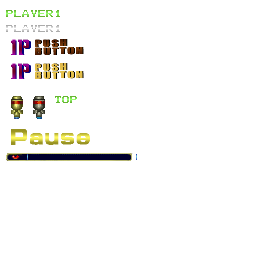
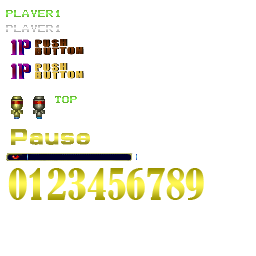
Update: prototype of score + screen bomb munition

Changed region(s): [[0.0312, 0.6562, 0.8125, 0.7812]]

diff --git a/OutZone/ModuleUI.cpp b/OutZone/ModuleUI.cpp
@@ -30,10 +30,23 @@ bool ModuleUi::Start(){
 	
 	idle_energybar.PushBack({ 5, 152, 128, 10});
 	idle_energy.PushBack({ 136, 153, 1, 7 });
+	idle_spbomb.PushBack({ 10, 96, 13, 22});
+	idle_score0.PushBack({ 7, 168, 20, 32 });
+	idle_score1.PushBack({ 27, 168, 20, 32 });
+	idle_score2.PushBack({ 47, 168, 20, 32 });
+	idle_score3.PushBack({ 67, 168, 20, 32 });
+	idle_score4.PushBack({ 87, 168, 20, 32 });
+	idle_score5.PushBack({ 107, 168, 20, 32 });
+	idle_score6.PushBack({ 127, 168, 20, 32 });
+	idle_score7.PushBack({ 147, 168, 20, 32 });
+	idle_score8.PushBack({ 167, 168, 20, 32 });
+	idle_score9.PushBack({ 187, 168, 20, 32 });
+	digit_score = &idle_score0;
+	personal_score = 0;
 
 	position.x = 30;
 	position.y = 20;
-
+	position_bomb = 5;
 	uitextures = App->textures->Load("Animation/UIs2.png");
 
 
@@ -51,8 +64,10 @@ bool ModuleUi::CleanUp()
 
 update_status ModuleUi::Update(){
 
+	// Energy bar;
 	App->render->Blit(uitextures, 10, 20, &(idle_energybar.GetCurrentFrame()), false);
 
+	// Energy;
 	current_time = SDL_GetTicks();
 	if ((current_time - last_deplation) > 1000 && infinite_energy == false){
 		last_deplation = SDL_GetTicks();
@@ -66,7 +81,17 @@ update_status ModuleUi::Update(){
 			App->render->Blit(uitextures, position.x, position.y +1, &(idle_energy.GetCurrentFrame()), false);
 		}
 	}
-	//Testing e_bars
+	
+	//bomb munition
+	if (App->player->spbombmunition >= 0)
+	{
+		for (int i = 0; i <= App->player->spbombmunition; i++)
+		{
+			App->render->Blit(uitextures, position_bomb, 280, &(idle_spbomb.GetCurrentFrame()), false);
+			position_bomb += 15;
+		}
+	}
+	print_score(personal_score, 120, 40);
 	
 	return UPDATE_CONTINUE;
 }
@@ -74,11 +99,70 @@ update_status ModuleUi::Update(){
 update_status ModuleUi::PostUpdate()
 {
 	position.x = 30;
+	position_bomb = 5;
 
 	return UPDATE_CONTINUE;
 }
 
-//Just for testing should be moved to ui module
-void ModuleUi::print_energy(){
-	App->render->Blit(uitextures, position.x, position.y, &(idle_energy.GetCurrentFrame()), false);
-};
+void ModuleUi::print_score(uint score, int score_postion_x, int score_position_y)
+{
+	
+	uint numberofdigits = number_digits(score);
+	int i = 0;
+	while (i <= numberofdigits)
+	{
+		i++;
+		digit = digit_x(score, i);
+		switch (digit)
+		{
+		case 0: digit_score = &idle_score0;
+			break;
+		case 1: digit_score = &idle_score1;
+			break;
+		case 2: digit_score = &idle_score2;
+			break;
+		case 3: digit_score = &idle_score3;
+			break;
+		case 4: digit_score = &idle_score4;
+			break;
+		case 5: digit_score = &idle_score5;
+			break;
+		case 6: digit_score = &idle_score6;
+			break;
+		case 7: digit_score = &idle_score7;
+			break;
+		case 8: digit_score = &idle_score8;
+			break;
+		case 9: digit_score = &idle_score9;
+			break;
+		}
+		
+		App->render->Blit(uitextures, score_postion_x, score_position_y, &digit_score->GetCurrentFrame(), false);
+		score_postion_x -= 22;
+		
+	}
+}
+
+int ModuleUi::digit_x(int num, int k) {
+	int flag, j;
+	j = 0;
+	flag = num;
+	while (j != k) {
+		num = flag % 10;
+		flag = flag / 10;
+		j++;
+	}
+	return num;
+}
+
+int ModuleUi::number_digits(int num) {
+	int flag;
+	int l = 0;
+	flag = num;
+	while (flag != 0) {
+		num = flag % 10;
+		flag = flag / 10;
+		l++;
+	}
+	return l;
+}

diff --git a/OutZone/ModuleLevel_3.cpp b/OutZone/ModuleLevel_3.cpp
@@ -144,7 +144,13 @@ bool ModuleLevel_3::Start()
 	App->collision->AddCollider({ 176, App->collision->returny(1344, background.h), 64, 64 }, COLLIDER_WALL);
 
 	//Enemies
-	App->enemies->AddEnemy(FOOT_SOLIDER_GREEN, 130, App->collision->returny(5350, background.h));
+	App->enemies->AddEnemy(FOOT_SOLIDER_GREEN, 150, App->collision->returny(5350, background.h));
+	App->enemies->AddEnemy(FOOT_SOLIDER_GREEN, 100, App->collision->returny(5550, background.h));
+	App->enemies->AddEnemy(FOOT_SOLIDER_GREEN, 110, App->collision->returny(5850, background.h));
+	App->enemies->AddEnemy(FOOT_SOLIDER_GREEN, 90, App->collision->returny(5050, background.h));
+	App->enemies->AddEnemy(FOOT_SOLIDER_GREEN, 150, App->collision->returny(5250, background.h));
+	App->enemies->AddEnemy(FOOT_SOLIDER_GREEN, 190, App->collision->returny(5950, background.h));
+
 
 	App->objects->AddObject(ENERGYBOX, 30, App->collision->returny(6300, background.h));
 	return true;

diff --git a/OutZone/Enemy_Solider_Green.cpp b/OutZone/Enemy_Solider_Green.cpp
@@ -34,6 +34,7 @@ Enemy_Solider_Green::Enemy_Solider_Green(int x, int y) : Enemy(x, y)
 
 void Enemy_Solider_Green::death(){
 	App->particles->AddParticle(App->particles->normal_explosion, position.x, position.y, COLLIDER_NONE);
+	App->ui->personal_score += 200;
 }
 
 void Enemy_Solider_Green::Move()

diff --git a/OutZone/ModulePlayer.cpp b/OutZone/ModulePlayer.cpp
@@ -132,6 +132,7 @@ bool ModulePlayer::Start(){
 	position_test.y = 150;
 	screenlowheight = 320;	
 	destroyed = false;
+	fall_animation = false;
 	spbombmunition = 3;
 	speed = PLAYER_SPEED;
 	current_weapon = MINIGUN;

diff --git a/OutZone/Enemy.h b/OutZone/Enemy.h
@@ -4,6 +4,8 @@
 #include "p2Point.h"
 #include "Animation.h"
 
+#include "ModuleUI.h"
+
 struct SDL_Texture;
 struct Collider;
 struct SDL_Rect;
